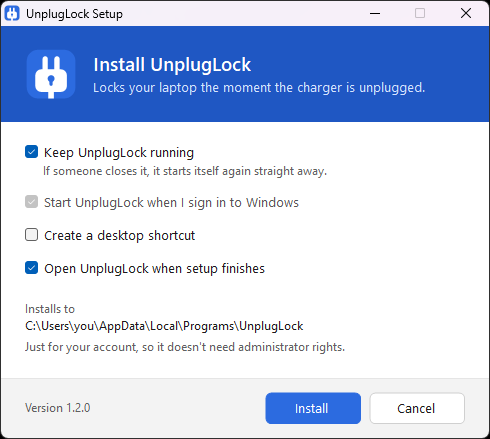
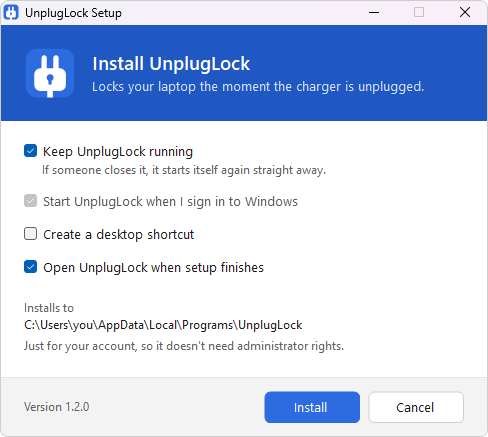
docs: clean up the edges of the installer screenshot

diff --git a/README.md b/README.md
@@ -47,7 +47,7 @@ The laptop itself can be replaced. What's harder to replace is everything you're
 3. Look for the blue plug icon in the system tray. You may need to click the **^** arrow next to the clock.
 
 <p align="center">
-  <img src="docs/installer.png" width="490" alt="The UnplugLock installer, with options to keep it running, start with Windows, add a desktop shortcut and open it when setup finishes">
+  <img src="docs/installer.png" width="488" alt="The UnplugLock installer, with options to keep it running, start with Windows, add a desktop shortcut and open it when setup finishes">
 </p>
 
 > Windows SmartScreen may warn about an unrecognised app because the installer isn't code-signed. Click **More info → Run anyway**.
